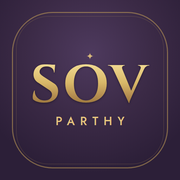
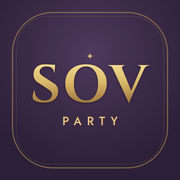
Renombra la marca de PARTHY a PARTY (ortografia correcta en ingles)
Actualiza el nombre visible en logo, metadata, JSON-LD, textos de WhatsApp,
footer, libro de reclamaciones y regenera favicon/icono/imagen OG con 'PARTY'.
El dominio sovdecoparthy.com se mantiene igual.

Claude-Session: https://claude.ai/code/session_01QcNCKsaXbd2PZ5iuZWoKNK

Changed region(s): [[0.3056, 0.6389, 0.6944, 0.6944]]

diff --git a/src/app/page.tsx b/src/app/page.tsx
@@ -3,7 +3,7 @@ import { SovLogo } from "@/components/SovLogo";
 import { SovGaleria, type GalItem } from "@/components/SovGaleria";
 
 /* ============================================================
-   SOV DECO PARTHY — Página informativa (una sola vista)
+   SOV DECO PARTY — Página informativa (una sola vista)
    Contacto: WhatsApp 942392029 · alexandramercadovargas@gmail.com
    ============================================================ */
 
@@ -11,9 +11,9 @@ const WA_NUMBER = "51942392029"; // Perú (+51) 942392029
 const EMAIL = "alexandramercadovargas@gmail.com";
 
 const waLink = (msg: string) => `https://wa.me/${WA_NUMBER}?text=${encodeURIComponent(msg)}`;
-const WA_DEFAULT = waLink("¡Hola SOV DECO PARTHY! Quisiera cotizar una decoración. Les cuento: ");
-const WA_GALERIA = waLink("¡Hola SOV DECO PARTHY! Vi sus trabajos y me gustaría una decoración. ¿Me pueden cotizar?");
-const WA_RESENA = waLink("¡Hola SOV DECO PARTHY! Quiero dejarles una reseña de mi experiencia: ");
+const WA_DEFAULT = waLink("¡Hola SOV DECO PARTY! Quisiera cotizar una decoración. Les cuento: ");
+const WA_GALERIA = waLink("¡Hola SOV DECO PARTY! Vi sus trabajos y me gustaría una decoración. ¿Me pueden cotizar?");
+const WA_RESENA = waLink("¡Hola SOV DECO PARTY! Quiero dejarles una reseña de mi experiencia: ");
 
 // 👉 Cuando crees el Perfil de Empresa de Google, pega aquí tu enlace para dejar reseña
 //    (ej. https://g.page/r/XXXXXXXX/review). Mientras esté vacío, el botón abre WhatsApp.
@@ -26,7 +26,7 @@ const jsonLd = {
   "@context": "https://schema.org",
   "@type": "LocalBusiness",
   "@id": `${SITE_URL}/#business`,
-  name: "SOV DECO PARTHY",
+  name: "SOV DECO PARTY",
   alternateName: "SOV DECO",
   url: SITE_URL,
   logo: `${SITE_URL}/icon.png`,
@@ -44,7 +44,7 @@ const jsonLd = {
 } as const;
 
 export const metadata: Metadata = {
-  title: { absolute: "SOV DECO PARTHY | Decoración para tus eventos y celebraciones" },
+  title: { absolute: "SOV DECO PARTY | Decoración para tus eventos y celebraciones" },
 };
 
 function WhatsAppIcon({ className = "ico" }: { className?: string }) {
@@ -155,7 +155,7 @@ export default function Home() {
       {/* ===== Header ===== */}
       <header className="site-header">
         <div className="hrow">
-          <a href="#inicio" aria-label="SOV DECO PARTHY inicio">
+          <a href="#inicio" aria-label="SOV DECO PARTY inicio">
             <SovLogo variant="header" />
           </a>
           <a className="nav-cta" href={WA_DEFAULT} target="_blank" rel="noopener noreferrer">
@@ -322,7 +322,7 @@ export default function Home() {
             <svg viewBox="0 0 24 24" aria-hidden="true"><path d="M4 4h11a3 3 0 013 3v13H7a3 3 0 01-3-3V4z" fill="none" stroke="currentColor" strokeWidth="1.6"/><path d="M8 8h7M8 12h7M8 16h4" stroke="currentColor" strokeWidth="1.6" strokeLinecap="round"/></svg>
             Libro de Reclamaciones
           </a>
-          <p className="copy">© {new Date().getFullYear()} SOV DECO PARTHY — Todos los derechos reservados</p>
+          <p className="copy">© {new Date().getFullYear()} SOV DECO PARTY — Todos los derechos reservados</p>
         </div>
       </footer>
 

diff --git a/src/app/layout.tsx b/src/app/layout.tsx
@@ -12,12 +12,12 @@ const greatvibes = Great_Vibes({ subsets: ["latin"], weight: "400", variable: "-
 export const metadata: Metadata = {
   metadataBase: new URL("https://www.sovdecoparthy.com"),
   title: {
-    default: "SOV DECO PARTHY | Decoración para tus eventos y celebraciones",
-    template: "%s | SOV DECO PARTHY",
+    default: "SOV DECO PARTY | Decoración para tus eventos y celebraciones",
+    template: "%s | SOV DECO PARTY",
   },
   description:
-    "SOV DECO PARTHY — Decoración y arreglos decorativos para cumpleaños, baby shower, 15 y 18 años, bautizos y toda celebración. Cotiza por WhatsApp y hacemos realidad la decoración de tus sueños.",
-  applicationName: "SOV DECO PARTHY",
+    "SOV DECO PARTY — Decoración y arreglos decorativos para cumpleaños, baby shower, 15 y 18 años, bautizos y toda celebración. Cotiza por WhatsApp y hacemos realidad la decoración de tus sueños.",
+  applicationName: "SOV DECO PARTY",
   keywords: [
     "decoración",
     "decoraciones",
@@ -31,21 +31,21 @@ export const metadata: Metadata = {
     "eventos",
     "fiestas",
     "globos",
-    "SOV DECO PARTHY",
+    "SOV DECO PARTY",
   ],
   alternates: { canonical: "/" },
   openGraph: {
     type: "website",
     locale: "es_PE",
     url: "https://www.sovdecoparthy.com",
-    siteName: "SOV DECO PARTHY",
-    title: "SOV DECO PARTHY | Decoración para tus eventos y celebraciones",
+    siteName: "SOV DECO PARTY",
+    title: "SOV DECO PARTY | Decoración para tus eventos y celebraciones",
     description:
       "Decoración y arreglos decorativos para cumpleaños, baby shower, 15 y 18 años, bautizos y más. Cotiza por WhatsApp.",
   },
   twitter: {
     card: "summary_large_image",
-    title: "SOV DECO PARTHY | Decoración para tus eventos y celebraciones",
+    title: "SOV DECO PARTY | Decoración para tus eventos y celebraciones",
     description:
       "Decoración y arreglos decorativos para cumpleaños, baby shower, 15 y 18 años, bautizos y más. Cotiza por WhatsApp.",
   },

diff --git a/src/app/libro-de-reclamaciones/page.tsx b/src/app/libro-de-reclamaciones/page.tsx
@@ -5,7 +5,7 @@ import { LibroReclamacionesForm } from "@/components/LibroReclamacionesForm";
 export const metadata: Metadata = {
   title: "Libro de Reclamaciones",
   description:
-    "Libro de Reclamaciones virtual de SOV DECO PARTHY, conforme al Código de Protección y Defensa del Consumidor (Ley N° 29571 - INDECOPI).",
+    "Libro de Reclamaciones virtual de SOV DECO PARTY, conforme al Código de Protección y Defensa del Consumidor (Ley N° 29571 - INDECOPI).",
   robots: { index: false, follow: true },
 };
 
@@ -14,7 +14,7 @@ export default function LibroDeReclamacionesPage() {
     <div className="sovpage">
       <header className="site-header">
         <div className="hrow">
-          <a href="/" aria-label="SOV DECO PARTHY inicio">
+          <a href="/" aria-label="SOV DECO PARTY inicio">
             <SovLogo variant="header" />
           </a>
           <a className="nav-cta" href="/">Volver al inicio</a>

diff --git a/src/components/SovLogo.tsx b/src/components/SovLogo.tsx
@@ -1,4 +1,4 @@
-/* Logotipo SOV DECO PARTHY — "SOV DECO" dorado (Cinzel) + "Parthy" firma (Great Vibes) */
+/* Logotipo SOV DECO PARTY — "SOV DECO" dorado (Cinzel) + "Party" firma (Great Vibes) */
 
 type Variant = "header" | "hero" | "footer";
 
@@ -6,7 +6,7 @@ export function SovLogo({ variant = "header" }: { variant?: Variant }) {
   return (
     <span className={`logo logo--${variant}`}>
       <span className="logo-top">SOV DECO</span>
-      <span className="logo-script">Parthy</span>
+      <span className="logo-script">Party</span>
     </span>
   );
 }

diff --git a/src/components/SovGaleria.tsx b/src/components/SovGaleria.tsx
@@ -32,7 +32,7 @@ export function SovGaleria({ items, waNumber }: { items: GalItem[]; waNumber: st
 
   const waFor = (label: string) =>
     `https://wa.me/${waNumber}?text=${encodeURIComponent(
-      `¡Hola SOV DECO PARTHY! Me encantó la decoración de ${label} que vi en su página. Me gustaría una así, ¿me pueden cotizar?`
+      `¡Hola SOV DECO PARTY! Me encantó la decoración de ${label} que vi en su página. Me gustaría una así, ¿me pueden cotizar?`
     )}`;
 
   const cur = items[i];

diff --git a/src/components/LibroReclamacionesForm.tsx b/src/components/LibroReclamacionesForm.tsx
@@ -26,7 +26,7 @@ export function LibroReclamacionesForm() {
 
     data.append("Código de la hoja", cod);
     data.append("Fecha y hora", now.toLocaleString("es-PE"));
-    data.append("_subject", `Libro de Reclamaciones ${cod} — SOV DECO PARTHY`);
+    data.append("_subject", `Libro de Reclamaciones ${cod} — SOV DECO PARTY`);
     data.append("_captcha", "false");
     data.append("_template", "table");
 

diff --git a/src/app/globals.css b/src/app/globals.css
@@ -1,7 +1,7 @@
 @import "tailwindcss";
 
 /* ============================================================
-   SOV DECO PARTHY — estilos de la landing (versión dorada)
+   SOV DECO PARTY — estilos de la landing (versión dorada)
    Alcance limitado a .sovpage para no afectar otras rutas.
    ============================================================ */
 
